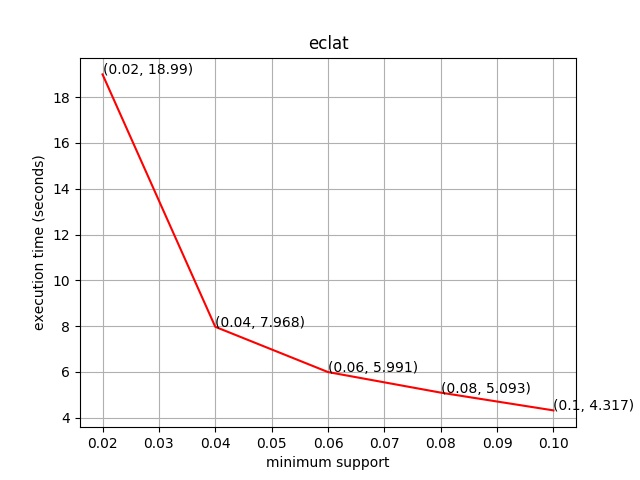
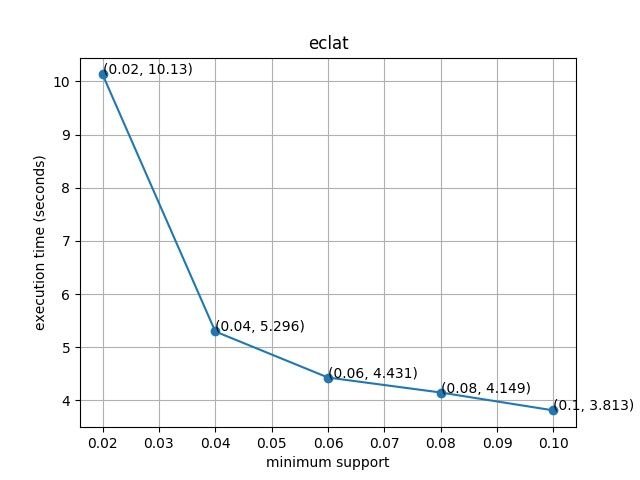
update

diff --git a/runner.py b/runner.py
@@ -178,7 +178,7 @@ def main():
 			for xy in zip(experiment_list, duration2):
 				ax.annotate('(%s, %.5s)' % xy, xy=xy, textcoords='data')
 		else:
-			plt.plot(experiment_list, duration, 'r')
+			plt.plot(experiment_list, duration, marker='o')
 		for xy in zip(experiment_list, duration):
 			ax.annotate('(%s, %.5s)' % xy, xy=xy, textcoords='data')
 		plt.ylabel('execution time (seconds)')
